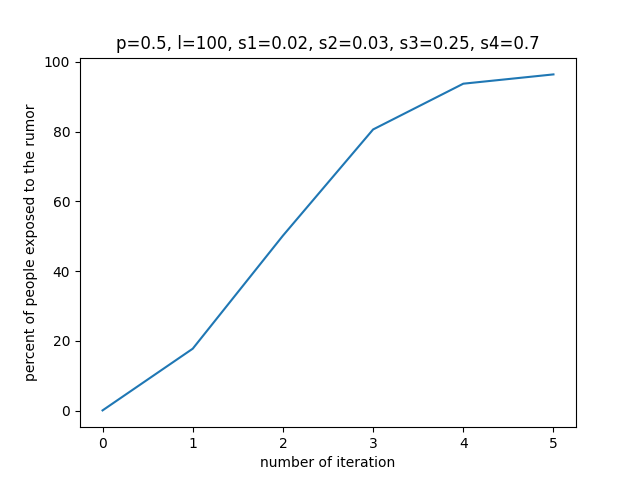
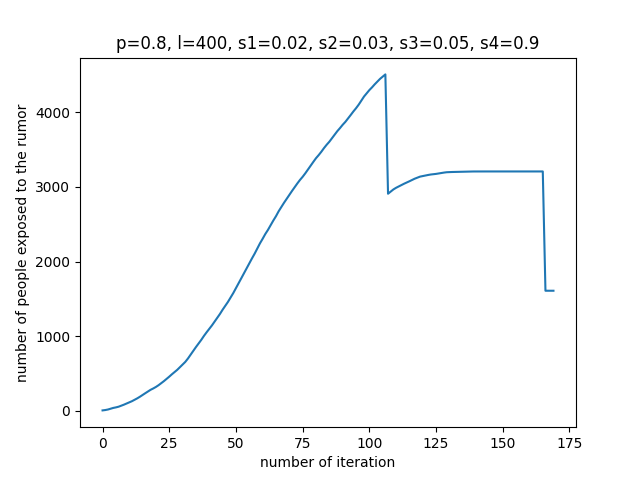
naama

diff --git a/main.py b/main.py
@@ -1,6 +1,6 @@
 import time
-import pygame
 import random
+import pygame
 from utils import check_input, plot_results
 
 
@@ -111,20 +111,16 @@ def show_menu():
                     lst_person[i] = person_expose_per_iteration[i] + lst_person[i]
                 plot_results(lst_person, input_texts)
         else:
-            for i in range(0, 10):
-                most_rumor_itreation, person_expose_per_iteration = startGame(0.2, 100, 0.02, 0.03, 0.25, 0.7)
-                lst_most_rumor.append(most_rumor_itreation)
-                for i in range(0, len(person_expose_per_iteration)):
-                    lst_person[i] = person_expose_per_iteration[i] + lst_person[i]
-            input_texts = ["0.2", "100", "0.02", "0.03", "0.25", "0.7"]
-            plot_results(lst_person, input_texts)
+            for i in range(0, 1):
+                most_rumor_itreation, person_expose_per_iteration = startGame(0.5, 100, 0, 0.1, 0.2, 0.7)
+                plot_results(most_rumor_itreation)
     except ValueError:
         for i in range(0, 10):
-            most_rumor_itreation, person_expose_per_iteration = startGame(0.2, 100, 0.02, 0.03, 0.25, 0.7)
+            most_rumor_itreation, person_expose_per_iteration = startGame(0.8, 30, 0.02, 0.03, 0.05, 0.9)
             lst_most_rumor.append(most_rumor_itreation)
             for i in range(0, len(person_expose_per_iteration)):
                 lst_person[i] = person_expose_per_iteration[i] + lst_person[i]
-        input_texts = ["0.2", "100", "0.02", "0.03", "0.25", "0.7"]
+        input_texts = ["0.8", "1", "0.02", "0.03", "0.05", "0.9"]
         plot_results(lst_person, input_texts)
 
 
@@ -361,6 +357,7 @@ def show_grid(grid, length_of_wait, number_of_person):
         # Handle events
         for event in pygame.event.get():
             if event.type == pygame.QUIT:
+                print(iteration)
                 running = False
 
         # Clear the window
@@ -391,25 +388,14 @@ def show_grid(grid, length_of_wait, number_of_person):
         # Update the display
         pygame.display.flip()
         person_with_rumor += counter
-        # sleep(0.1)
         lst_rumor.append((iteration, counter))
-        if iteration % 999 == 0:
-            precent = person_with_rumor / number_of_person
-            precent = precent * 100
-            lst_person_with_rumor.append(precent)
-        if iteration == 5000:
-            running = False
-        if person_with_rumor == number_of_person - 1:
-            # fill the list with the last precent
-            it = 5000 - iteration
-            it = it // 999
-            for i in range(it + 1):
-                lst_person_with_rumor.append(100)
+
+        precent = person_with_rumor
+        lst_person_with_rumor.append(precent)
+        if iteration == 7000:
             running = False
         iteration += 1
         # Quit Pygame
-        if person_with_rumor == number_of_person:
-            running = False
     pygame.quit()
     return lst_rumor, lst_person_with_rumor
 

diff --git a/utils.py b/utils.py
@@ -64,16 +64,8 @@ class Cell:
             chance = (1 / self.cell_type) * self.rumor
 
 
-def plot_results(lst_person, input_text):
-    # average the number of people exposed to the rumor
-    for i in range(0, len(lst_person)):
-        lst_person[i] = lst_person[i] / 10
-    # plot the graph of the number of people exposed to the rumor
-    plt.ylabel('percent of people exposed to the rumor')
-    plt.xlabel('number of iteration')
-    plt.plot(lst_person)
-    # put the values p and l and s1 s2 s3 s4 in the graph title and the legend
-    plt.title(
-        f"p={input_text[0]}, l={input_text[1]}, s1={input_text[2]}, s2={input_text[3]}, s3={input_text[4]}, s4={input_text[5]}")
-    # save the graph
-    plt.savefig('graph5.png')
+def plot_results(most_rumor_itreation):
+    plt.plot([i[0] for i in most_rumor_itreation] , [i[1] for i in most_rumor_itreation])
+    plt.xlabel('Iteration')
+    plt.ylabel('New Person Expose')
+    plt.show()
